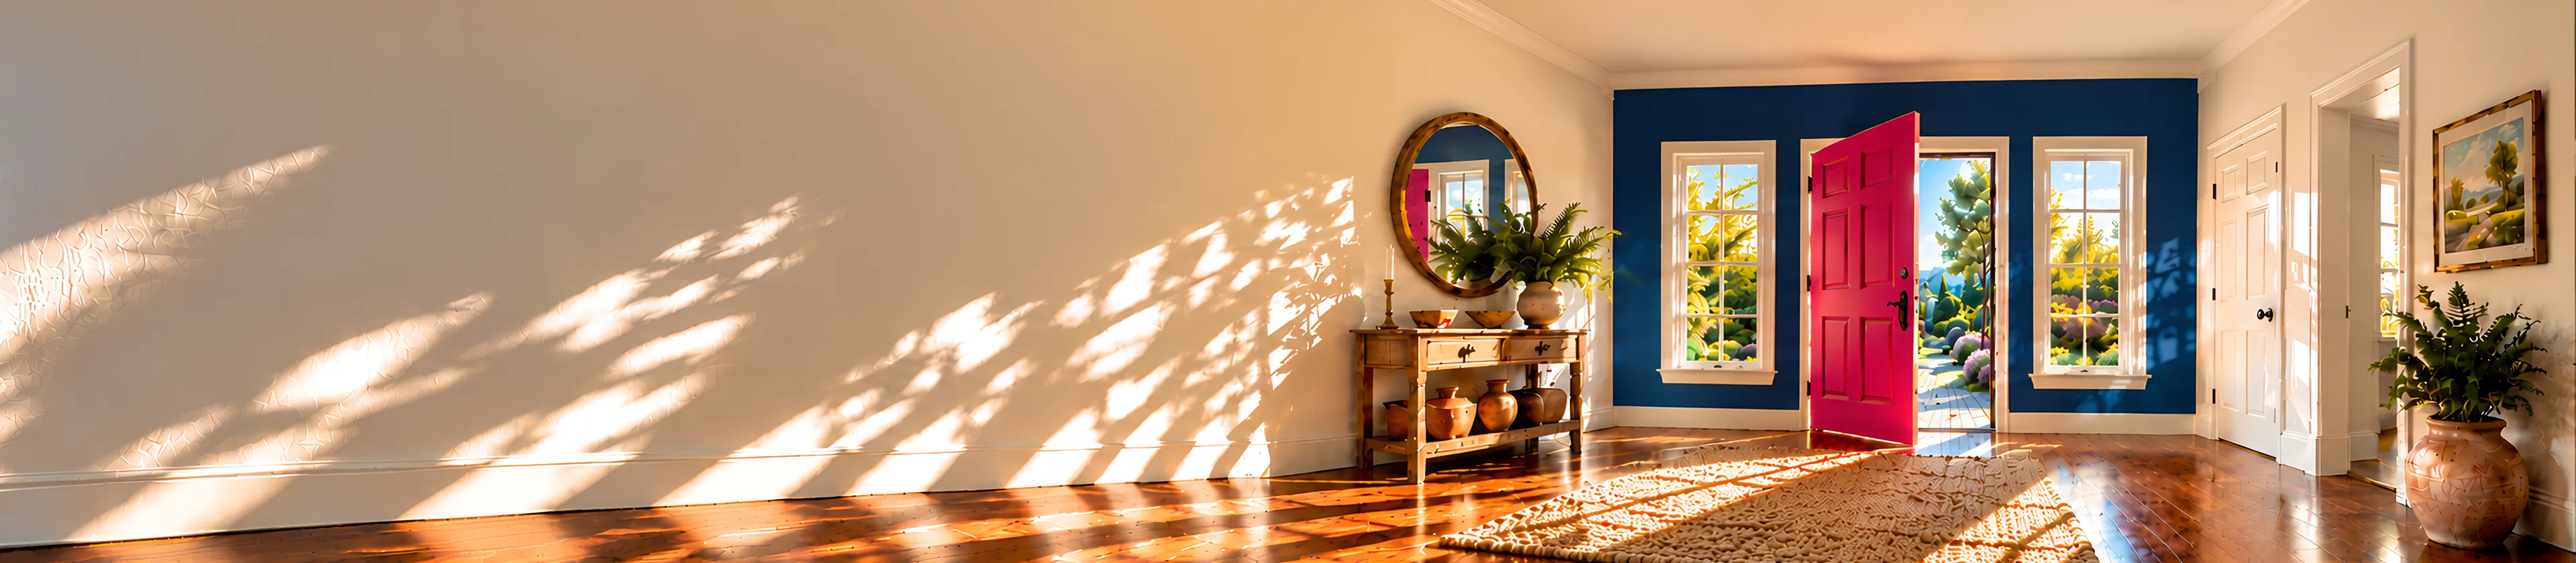
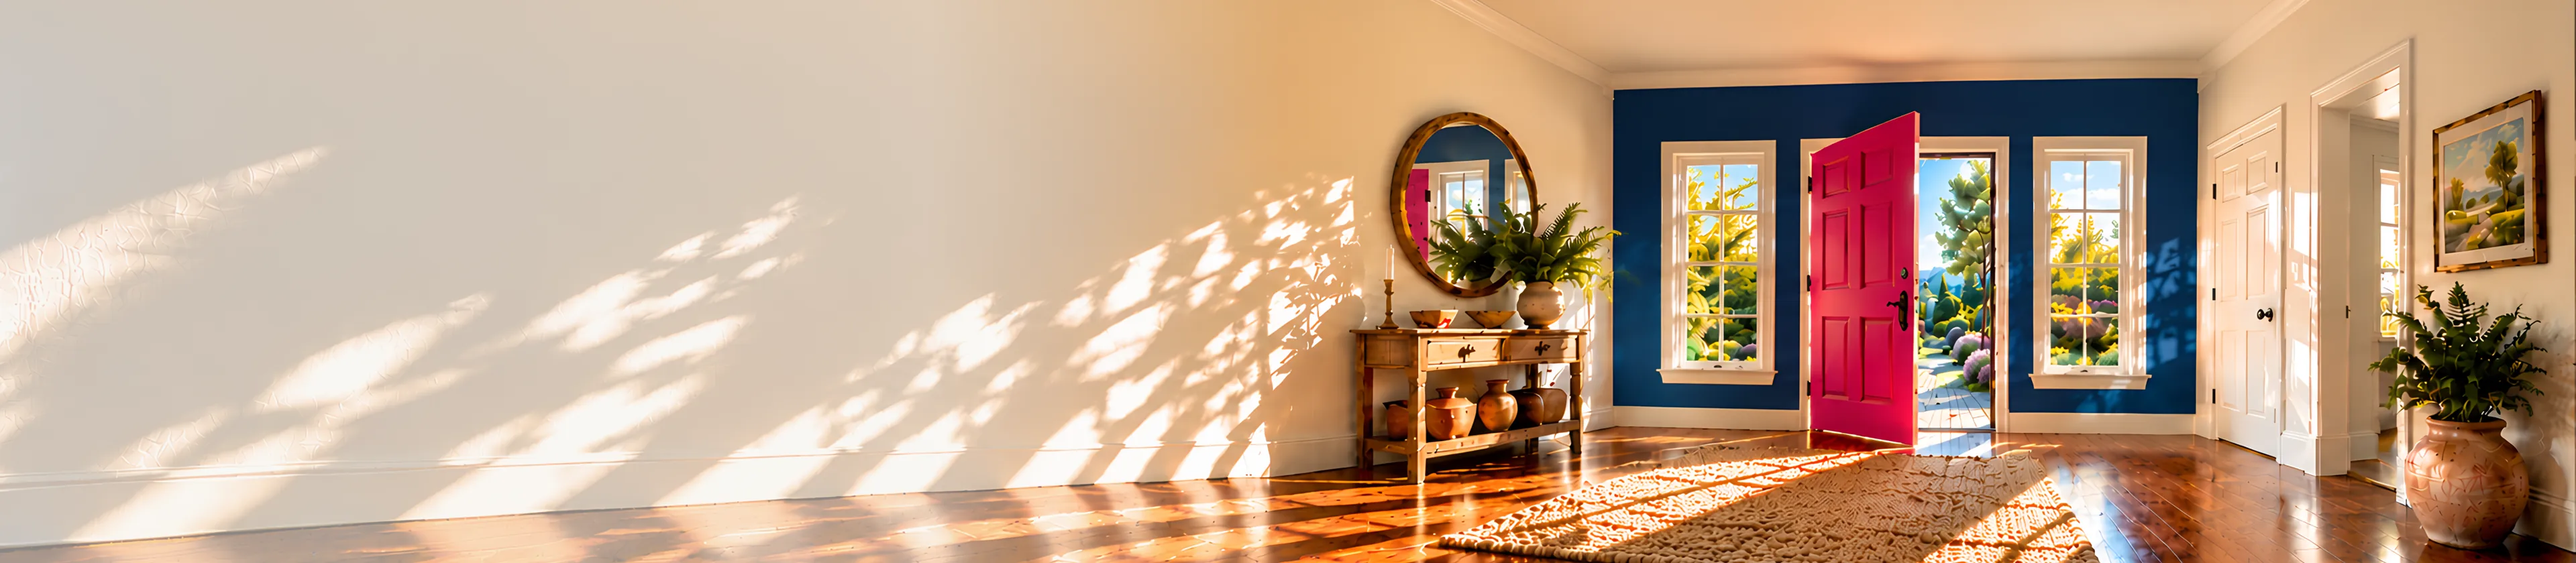
Hero: lighten the wall behind the headline
David: the headline was fighting the darker, dappled left wall of the new
hero (charcoal text measured 5.0:1 there). The desktop files' left half is
blended 55% toward cream, feathered out before the mirror, as was done for
the previous hero: 8.6:1 at its weakest, 9.7:1 median. Phone crops unchanged.

Claude-Session: https://claude.ai/code/session_01NjxYhxaUCieJLGAMqtieR9

diff --git a/src/pages/RPPHomeV3.tsx b/src/pages/RPPHomeV3.tsx
@@ -129,6 +129,11 @@ const RPPHomeV3 = () => {
                1920x364) at David's choice, so the ceiling above the door AND the floor and rug
                both show; the hero is about 40px taller on a laptop. 3840x840 for sharp screens,
                both shrunk from the source, never enlarged. Phone crops keep 1200x430.
+               The headline overlays the left wall on laptops; that wall had dappled sun and
+               measured only 5.0:1 behind the charcoal text, and David saw it "fighting the
+               wall". The left half is blended 55% toward cream, full to 36% of the width and
+               feathered out by 50% (before the mirror): now 8.6:1 at its weakest, 9.7:1
+               median. Phone crops are untouched (the headline sits below the image there).
 
                rpp-hero-2032 (Oct 22, 2026): the same 2031 render, upscaled by the
                owner to 8000px because the hero looked soft on high-resolution
